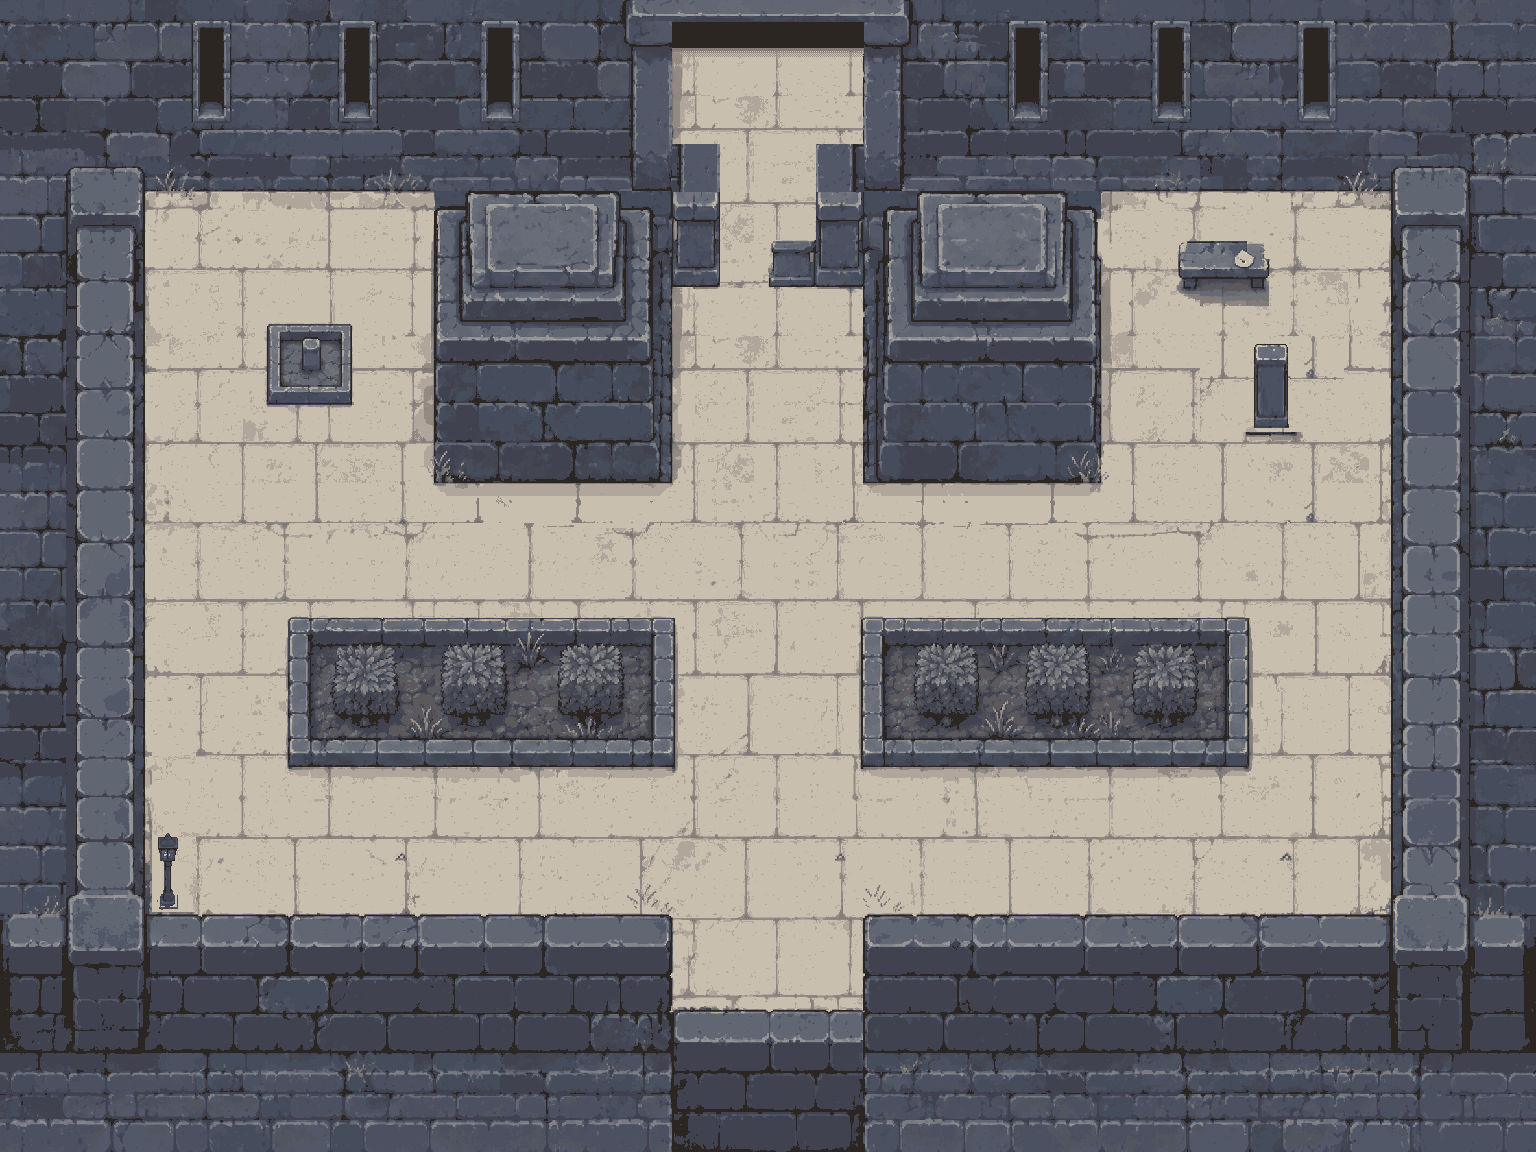
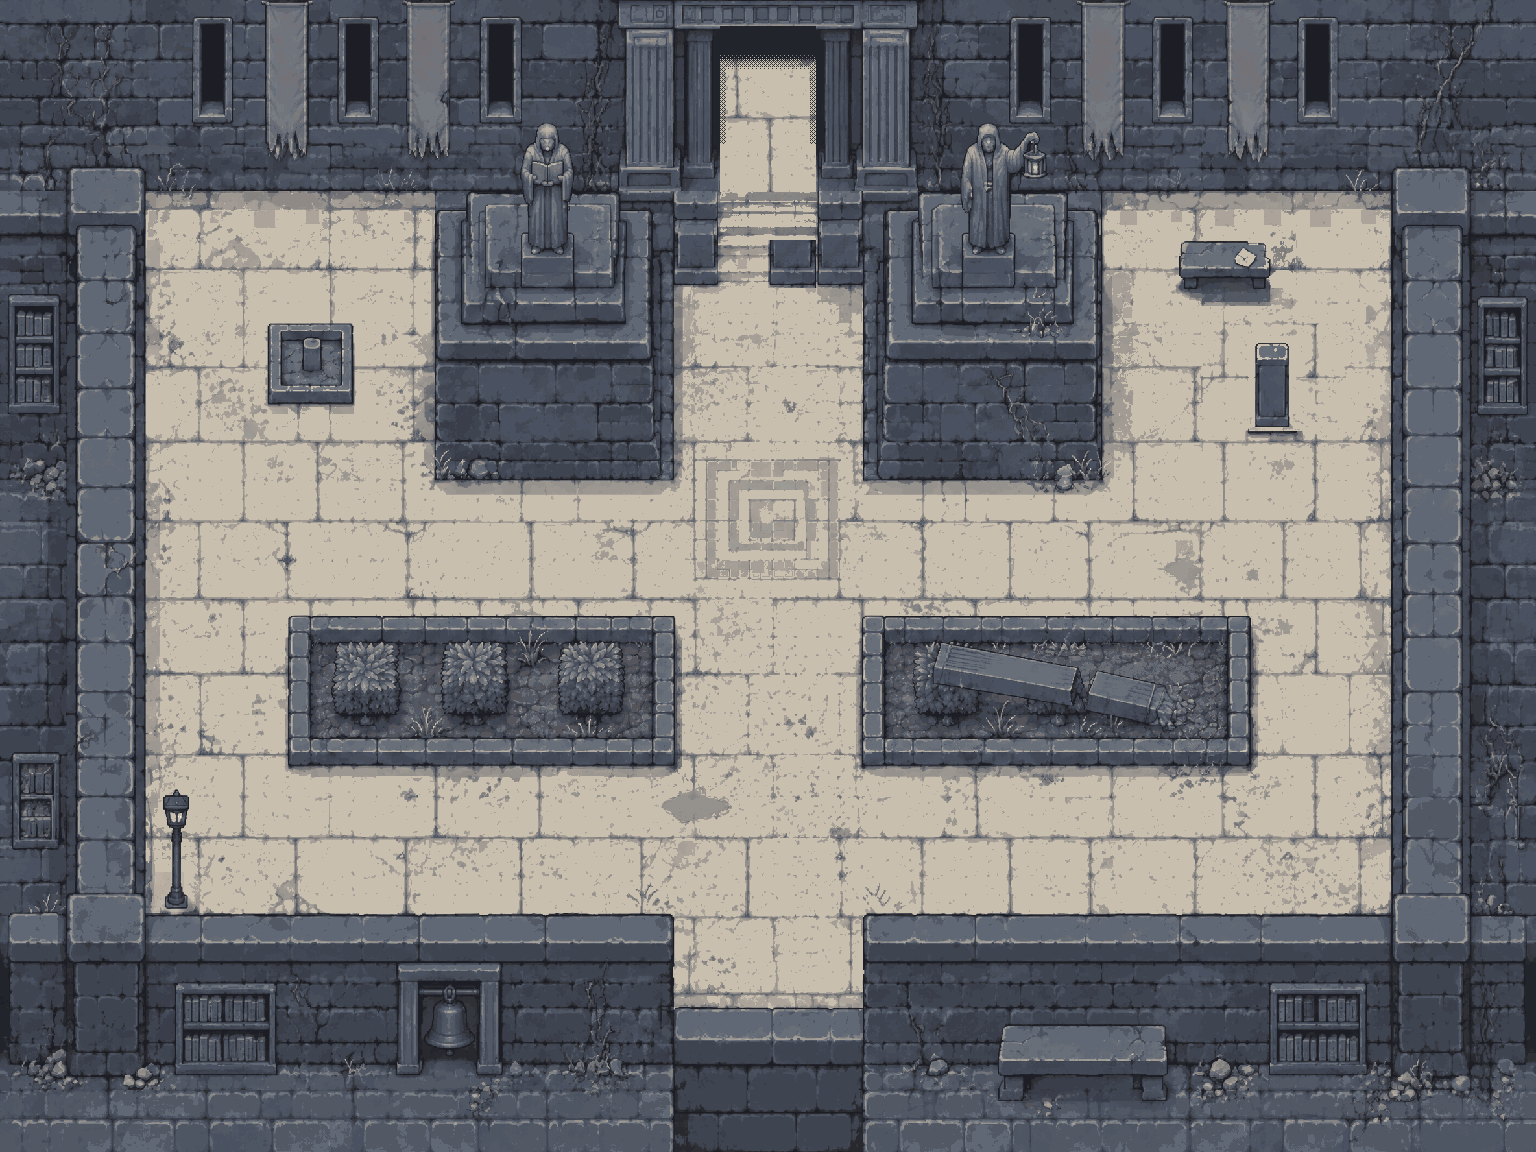
art: richer act 5 maps (tower gate, statues, tower-top parapet)
Review said 5-1 and 5-2 were too plain. Both redrawn at 2K from the
committed maps with the new structure roughly painted in
(ref_5-1_rich.py, ref_5-2_rich.py), palette from both images side by side
(43 colours, sat <= 0.25), then fix_5-X_48_rich.py + calm.py (each
walkable tile keeps >= 46% path colour; cracks, pebbles, ash, weeds,
puddles and the square mosaic stay).

5-1: tall square gate (fluted posts, carved lintel, dark doorway, steps),
statues with a book and an unlit lantern on the plinths, faded banners,
dead vines, toppled pillar, stone-tablet shelves, a cold bell, rubble.
5-2: tower top with crenellated parapet over a grey cloud sea, broken
iron railings, cracked dais with a square border, banner, rubble, stair
down off the east edge.

Data change in 5-1 (Task 1 Step 9 rules): (14,1) (14,2) (17,1) (17,2)
'.' -> '#', so the gate posts stand 4 tiles tall; exit (15,1) and its
passage untouched. No arches or circles and no fog on the act 5 maps,
per the art bible and plan. bad 0 on both. 2 generations, 20 credits.

Claude-Session: https://claude.ai/code/session_017WoqJ7PBE5F4GzxWdiYF3d

Changed region(s): [[0.0, 0.0, 1.0, 1.0]]

diff --git a/data/acts/act5.js b/data/acts/act5.js
@@ -10,8 +10,8 @@ const say = (text) => ({ who: 'narration', text });
 // 위쪽 가운데: 탑 문 앞을 꼬마 잿빛 그림자(m)가 막고, 그 위가 탑 문(출구 15,1)
 const MAP_5_1 = [
   '################################',
-  '##############....##############',
-  '##############....##############',
+  '###############..###############',
+  '###############..###############',
   '###############..###############',
   '###......######..######......###',
   '###.c....######m#######..9...###',

diff --git a/design/art/act5/map-fixes/ref_5-2_rich.py b/design/art/act5/map-fixes/ref_5-2_rich.py
@@ -1,0 +1,61 @@
+# 5-2 다시 그리기(풍성하게)용 참고 그림: 커밋한 5-2 맵 위에 탑 꼭대기 자리를 거칠게 칠한다.
+# 바깥벽 바깥쪽 두 칸(0~1열, 30~31열, 0줄, 22~23줄)은 탑 아래 멀리 깔린 잿빛 구름 바다,
+# 바깥벽 안쪽 칸(2열·29열·1줄·21줄)은 네모 톱니(총안)가 있는 난간 벽, 동쪽 출구(29~31열 10줄)는 아래로 내려가는 돌계단.
+# 가운데 꼭대기 단(12~21열 9~11줄)은 길 색 위에 네모 테두리 무늬와 금(갈라진 단). 안쪽 벽 위 부서진 쇠 난간 자리.
+# 모양은 모두 곧은 네모(아치·둥근 것 없음, 구름만 부드럽다). 구름은 잿빛 3단이 아닌 옅은 푸른 잿빛.
+# 사용: $PY ref_5-2_rich.py assets/pixel/map_ch5-2_tap-kkokdaegi.png raw/map_5-2_ref_rich.png
+import sys, json, subprocess
+import numpy as np
+from PIL import Image, ImageDraw, ImageFilter
+src, out = sys.argv[1:3]
+im = Image.open(src).convert('RGB')
+T = 48
+rows = json.loads(subprocess.run(['node', 'tools/layout-guide.mjs', '--rows', '5-2'], capture_output=True, text=True).stdout)
+STONE_L, STONE, STONE_D, INK = (0x75, 0x79, 0x81), (0x61, 0x66, 0x73), (0x4B, 0x51, 0x60), (0x40, 0x43, 0x4F)
+VOID, CLOUD_D, CLOUD_L = (0x4D, 0x50, 0x5B), (0x82, 0x84, 0x87), (0xA2, 0x9B, 0x93)
+d = ImageDraw.Draw(im)
+R = lambda x0, y0, x1, y1, c, o=None: d.rectangle((round(x0 * T), round(y0 * T), round(x1 * T) - 1, round(y1 * T) - 1), fill=c, outline=o)
+
+# 구름 바다(바깥 두 칸 띠)
+sea = np.zeros((24 * T, 32 * T), bool)
+sea[:, :2 * T] = True; sea[:, 30 * T:] = True; sea[:1 * T, :] = True; sea[22 * T:, :] = True
+sea[10 * T:11 * T, 29 * T:] = False                     # 출구 계단은 남긴다
+cl = Image.new('RGB', im.size, VOID)
+cd = ImageDraw.Draw(cl)
+rng = np.random.default_rng(3)
+for _ in range(90):
+    x, y = rng.integers(0, 32 * T), rng.integers(0, 24 * T)
+    w, h = rng.integers(60, 160), rng.integers(24, 60)
+    cd.ellipse((x - w, y - h, x + w, y + h), fill=CLOUD_D)
+    cd.ellipse((x - w * 0.6, y - h * 0.8, x + w * 0.5, y + h * 0.3), fill=CLOUD_L)
+cl = cl.filter(ImageFilter.ModeFilter(9))
+a = np.array(im); a[sea] = np.array(cl)[sea]; im = Image.fromarray(a)
+d = ImageDraw.Draw(im)
+# 난간 벽과 네모 톱니(바깥쪽 가장자리)
+for x in (2, 29):
+    for y0, y1 in ((1, 10), (11, 22)) if x == 29 else ((1, 22),):
+        R(x, y0, x + 1, y1, STONE, INK)
+    for y in range(1, 22):
+        if x == 29 and y == 10:
+            continue
+        R(x + (0 if x == 2 else 0.55), y + 0.1, x + (0.45 if x == 2 else 1), y + 0.6, STONE_L, INK)
+for y in (1, 21):
+    R(2, y, 30, y + 1, STONE, INK)
+    for xx in range(2, 30):
+        R(xx + 0.1, y + (0 if y == 1 else 0.55), xx + 0.6, y + (0.45 if y == 1 else 1), STONE_L, INK)
+# 출구 돌계단(29~31열 10줄), 길 색 위 디딤 턱
+for k in range(9):
+    x = 29 + k * 0.33
+    R(x, 10, x + 0.05, 11, (0xA2, 0x9B, 0x93))
+# 꼭대기 단: 네모 테두리 무늬 두 겹과 금
+R(12.3, 9.2, 21.7, 11.8, None, (0xA2, 0x9B, 0x93))
+R(12.6, 9.45, 21.4, 11.55, None, (0xA2, 0x9B, 0x93))
+d.line((14 * T, 9.5 * T, 15.2 * T, 10.4 * T, 16.1 * T, 10.2 * T), fill=(0x82, 0x84, 0x87), width=2)
+# 안쪽 벽 위 부서진 쇠 난간(가는 세로 살 줄)
+for (x0, x1, y) in ((6, 26, 4.1), (10, 22, 8.1), (6, 26, 16.1)):
+    for xx in np.arange(x0, x1, 0.25):
+        if rng.random() < 0.8:
+            R(xx, y, xx + 0.04, y + 0.35, INK)
+    R(x0, y, x1, y + 0.05, INK)
+im.save(out)
+print('saved', out)

diff --git a/design/art/act5/map-fixes/fix_5-1_48_rich.py b/design/art/act5/map-fixes/fix_5-1_48_rich.py
@@ -1,0 +1,46 @@
+# 5-1(풍성하게) 48px 다듬기. 2K 원본 map_5-1_2k_b1(참고: ref_5-1_rich.py로 문 자리를 칠한 커밋 맵)을
+# 5막 색표(5-1·5-2 풍성한 2K 둘을 나란히 붙인 그림에서 뽑은 43색)로 줄인 뒤:
+# 1) 탑 문: 2K는 문 안(15~16열 1~3줄)을 그늘로 그렸다. 마당 판석을 옮겨 깔고, 0줄과 1줄 위 22px만 어두운 문 안으로
+#    (아래로 갈수록 성긴 디더). 문기둥은 데이터대로 14·17열 1~2줄 막힌 칸(act5.js 5-1 두 줄 고침)에 그대로 선다.
+# 2) (16,5) 문 앞 기둥: 2K는 계단으로 그렸다. 오른쪽 (17,5) 기둥 돌을 옮겨 놓는다.
+# 3) calm.py: 걸을 수 있는 칸마다 길 색이 46% 넘게(판석의 밝기 차이를 먼저 모으고, 모자라면 길 색과 가까운 점부터).
+#    금 간 판석·잔돌·마른 꽃잎·풀·물웅덩이·네모 모자이크 같은 또렷한 무늬는 남는다.
+# 사용: $PY fix_5-1_48_rich.py raw/map_5-1_b1_px.png raw/map_5-1_48b.png
+import os, sys, json, subprocess
+sys.path.insert(0, os.path.dirname(os.path.abspath(__file__)))
+import numpy as np
+from PIL import Image
+from calm import calm
+src, out = sys.argv[1:3]
+im = Image.open(src)
+a = np.array(im)
+pal = im.getpalette()
+hexes = ['#%02X%02X%02X' % tuple(pal[i*3:i*3+3]) for i in range(len(pal) // 3)]
+idx = lambda h: hexes.index(h.upper())
+rows = json.loads(subprocess.run(['node', 'tools/layout-guide.mjs', '--rows', '5-1'], capture_output=True, text=True).stdout)
+T = a.shape[1] // 32
+
+DARK, INK = idx('#22242C'), idx('#34373D')
+B = np.array([[0, 8, 2, 10], [12, 4, 14, 6], [3, 11, 1, 9], [15, 7, 13, 5]])
+# 1) 문 안 바닥: 마당 판석 2×3칸(20~21열 16~18줄)을 문 안 15~16열 1~3줄로 옮기고, 0줄과 1줄 위쪽만 어두운 문 안
+#    (1줄 위 22px 안에서 아래로 갈수록 성긴 Bayer 디더, 짙은 먹색 → 먹색)
+a[1 * T:4 * T, 15 * T:17 * T] = a[16 * T:19 * T, 20 * T:22 * T]
+for yy in range(T, 3 * T):                             # 문설주 안쪽 그늘(양옆 6px, 성긴 디더)
+    for xx in list(range(15 * T, 15 * T + 6)) + list(range(17 * T - 6, 17 * T)):
+        if B[yy % 4, xx % 4] < 6:
+            a[yy, xx] = INK
+for yy in range(int(0.55 * T), T + 22):
+    t = 1.0 if yy < T + 6 else 1 - (yy - T - 6) / 16
+    for xx in range(15 * T, 17 * T):
+        if B[yy % 4, xx % 4] < t * 16:
+            a[yy, xx] = DARK if yy < T + 12 else INK
+# 2) (16,5) 기둥
+a[5 * T:6 * T, 16 * T:17 * T] = a[5 * T:6 * T, 17 * T:18 * T]
+
+# 3) 길 고르기
+P = '#C9BFAE'
+NEAR = ['#BBB0A1', '#BAB2A7', '#BDB6AB', '#B6ACA0', '#D1C9BA']
+a = calm(a, pal, rows, set(), P, NEAR)
+o = Image.fromarray(a, 'P'); o.putpalette(pal)
+o.save(out, optimize=True)
+print('saved', out)

diff --git a/design/art/act5/map-fixes/ref_5-1_rich.py b/design/art/act5/map-fixes/ref_5-1_rich.py
@@ -1,0 +1,45 @@
+# 5-1 다시 그리기(풍성하게)용 참고 그림: 커밋한 5-1 맵 위에 큰 탑 문 자리를 거칠게 칠한다.
+# 문: 13·18열 굵은 문설주(0~3줄, 세로 홈 새김), 12~19열 0줄 위쪽 두꺼운 상인방(네모 새김판), 14~17열 0줄 어두운 문 안,
+# 15~16열 3~4줄 돌계단(길 색 위에 디딤 턱 줄만). 받침돌 위 석상 자리, 화단 하나에 쓰러진 돌기둥, 탑 벽의 바랜 깃발 자리.
+# 모양은 모두 곧은 네모(아치·둥근 것 없음). 색은 5막 색표 안의 것만.
+# 사용: $PY ref_5-1_rich.py assets/pixel/map_ch5-1_tap-apttel.png raw/map_5-1_ref_rich.png
+import sys
+from PIL import Image, ImageDraw
+src, out = sys.argv[1:3]
+im = Image.open(src).convert('RGB')
+d = ImageDraw.Draw(im)
+T = 48
+STONE_L, STONE, STONE_D, INK, DARK = (0x75, 0x79, 0x81), (0x61, 0x66, 0x73), (0x4B, 0x51, 0x60), (0x40, 0x43, 0x4F), (0x2B, 0x26, 0x22)
+R = lambda x0, y0, x1, y1, c, o=None: d.rectangle((round(x0 * T), round(y0 * T), round(x1 * T) - 1, round(y1 * T) - 1), fill=c, outline=o)
+
+# 문설주(왼쪽 13열, 오른쪽 18열): 바깥 돌, 안쪽 밝은 면, 세로 홈 셋
+for x in (13, 18):
+    R(x, 0, x + 1, 3.95, STONE, INK)
+    R(x + 0.15, 0.55, x + 0.85, 3.7, STONE_L, INK)
+    for k in (0.32, 0.5, 0.68):
+        R(x + k - 0.03, 0.8, x + k + 0.03, 3.5, STONE_D)
+    R(x - 0.1, 3.55, x + 1.1, 3.95, STONE_D, INK)            # 받침
+# 상인방과 새김판
+R(12.6, 0, 19.4, 0.55, STONE, INK)
+R(14.3, 0.08, 17.7, 0.47, STONE_D, INK)
+for k in range(6):
+    R(14.5 + k * 0.5, 0.16, 14.75 + k * 0.5, 0.39, STONE_L)
+# 문 안(0줄 아래쪽)
+R(14, 0.55, 18, 1.0, DARK)
+# 돌계단: 3~4줄 15~16열, 길 위에 디딤 턱 줄만
+for k in range(5):
+    y = 3 + 0.4 * k
+    R(15, y, 17, y + 0.06, (0xB0, 0xA6, 0x9C))
+# 받침돌 위 석상(책을 든 사람·꺼진 등을 든 사람) 자리: 좁은 세로 덩이
+for cx, top in ((11.5, 4.1), (20.5, 4.1)):
+    R(cx - 0.45, top + 1.1, cx + 0.45, top + 1.6, STONE_D, INK)   # 석상 받침
+    R(cx - 0.3, top, cx + 0.3, top + 1.15, STONE_L, INK)          # 몸
+    R(cx - 0.18, top - 0.35, cx + 0.18, top, STONE_L, INK)         # 머리
+# 쓰러진 돌기둥(오른쪽 화단)
+R(19, 13.55, 24.6, 14.25, STONE_L, INK)
+R(24.6, 13.45, 25.2, 14.35, STONE, INK)
+# 탑 벽의 바랜 깃발(세로 띠) 넷
+for cx in (6, 9, 23, 26):
+    R(cx - 0.3, 0.4, cx + 0.3, 2.9, (0x8E, 0x86, 0x80), INK)
+im.save(out)
+print('saved', out)

diff --git a/design/art/act5/map-fixes/calm.py b/design/art/act5/map-fixes/calm.py
@@ -1,0 +1,54 @@
+# 5막 맵 공용 다듬기(색표 안에서만 바꾼다, 색 수 그대로).
+# 걸을 수 있는 칸(과 출구 통로)은 길 색(가장 많은 판석 색)이 칸마다 SHARE 넘게 되도록, 길 색과 가장 가까운 점부터
+# 길 색으로 바꾼다(금·잔돌·풀·얼룩 같은 또렷한 무늬는 끝까지 남는다). 3-2 디딤돌처럼 길 바탕 위에 무늬를 얹는 방식.
+#   calm(a, pal, rows, exit_cells, path_hex, near_hexes, share)
+#     near_hexes: 길 칸 둘레 8px 안에서 먼저 길 색으로 모을 판석 색(같은 판석의 밝기 차이)
+import numpy as np
+
+
+def shift_all(mm, r, fn):
+    H, W = mm.shape
+    p = np.pad(mm, r, constant_values=(fn is np.logical_and))
+    o = mm.copy()
+    for dy in range(-r, r + 1):
+        for dx in range(-r, r + 1):
+            o = fn(o, p[r + dy:r + dy + H, r + dx:r + dx + W])
+    return o
+
+
+def walk_mask(a, rows, extra=()):
+    T = a.shape[1] // len(rows[0])
+    m = np.zeros(a.shape, bool)
+    for y, r in enumerate(rows):
+        for x, c in enumerate(r):
+            if (c != '#' and not c.isdigit()) or (x, y) in extra:
+                m[y * T:(y + 1) * T, x * T:(x + 1) * T] = True
+    return m, T
+
+
+def calm(a, pal, rows, extra, path_hex, near_hexes, share=0.46):
+    hexes = ['#%02X%02X%02X' % tuple(pal[i*3:i*3+3]) for i in range(len(pal) // 3)]
+    rgb = np.array(pal[:len(hexes) * 3]).reshape(-1, 3).astype(float)
+    P = hexes.index(path_hex)
+    m, T = walk_mask(a, rows, extra)
+    zone = shift_all(m, 8, np.logical_or)
+    before = a.copy()
+    for h in near_hexes:
+        a[(before == hexes.index(h)) & zone] = P
+    dist = np.sqrt(((rgb - rgb[P]) ** 2).sum(axis=1))
+    need = int(np.ceil(share * T * T))
+    for y, r in enumerate(rows):
+        for x, c in enumerate(r):
+            if not ((c != '#' and not c.isdigit()) or (x, y) in extra):
+                continue
+            t = a[y * T:(y + 1) * T, x * T:(x + 1) * T]
+            have = int((t == P).sum())
+            if have >= need:
+                continue
+            # 길 색과 가까운 색부터, 같은 색 안에서는 칸 가운데에서 먼 점부터 바꾼다
+            yy, xx = np.nonzero(t != P)
+            d = dist[t[yy, xx]]
+            edge = -np.maximum(np.abs(yy - T / 2), np.abs(xx - T / 2))
+            order = np.lexsort((edge, d))[:need - have]
+            t[yy[order], xx[order]] = P
+    return a

diff --git a/design/art/act5/map-fixes/fix_5-2_48_rich.py b/design/art/act5/map-fixes/fix_5-2_48_rich.py
@@ -1,0 +1,36 @@
+# 5-2(풍성하게, 탑 꼭대기) 48px 다듬기. 2K 원본 map_5-2_2k_b1(참고: ref_5-2_rich.py로 난간·구름·단을 칠한 커밋 맵)을
+# 5막 색표(5-1과 같은 43색)로 줄인 뒤:
+# 1) 위쪽 등잔걸이(0, (15,3)): 2K는 종을 넣어 그렸다. 서쪽 빈 등잔걸이(1, (3,9)) 칸을 옮겨 놓아 셋이 같은 빈 등잔걸이가 되게 한다.
+# 1b) 구름 띠의 가장 밝은 점은 구름 잿빛으로.
+# 2) calm.py: 걸을 수 있는 칸(과 출구 통로 (31,10))마다 길 색이 46% 넘게. 바닥에 떨어진 잔돌·재·꽃잎·금·물웅덩이는 남는다.
+# 사용: $PY fix_5-2_48_rich.py raw/map_5-2_b1_px.png raw/map_5-2_48b.png
+import os, sys, json, subprocess
+sys.path.insert(0, os.path.dirname(os.path.abspath(__file__)))
+import numpy as np
+from PIL import Image
+from calm import calm
+src, out = sys.argv[1:3]
+im = Image.open(src)
+a = np.array(im)
+pal = im.getpalette()
+rows = json.loads(subprocess.run(['node', 'tools/layout-guide.mjs', '--rows', '5-2'], capture_output=True, text=True).stdout)
+T = a.shape[1] // 32
+
+# 1) 위쪽 등잔걸이
+a[2 * T + 16:4 * T, 15 * T:16 * T] = a[8 * T + 16:10 * T, 3 * T:4 * T]
+
+# 1b) 구름의 가장 밝은 점(흰 빛처럼 보임)은 구름 잿빛으로(바닥 둘레 밖에서만)
+hexes = ['#%02X%02X%02X' % tuple(pal[i*3:i*3+3]) for i in range(len(pal) // 3)]
+from calm import walk_mask, shift_all
+wm, _ = walk_mask(a, rows, {(31, 10)})
+out_zone = ~shift_all(wm, 4 * T, np.logical_or) | (np.arange(a.shape[1])[None, :] >= 30 * T) | (np.arange(a.shape[1])[None, :] < 2 * T)
+for h, to in (('#FBF5E6', '#A19B93'), ('#D1C9BA', '#A19B93'), ('#C9BFAE', '#A19B93')):
+    a[(a == hexes.index(h)) & out_zone & ~wm] = hexes.index(to)
+
+# 2) 길 고르기
+P = '#C9BFAE'
+NEAR = ['#BBB0A1', '#BAB2A7', '#BDB6AB', '#B6ACA0', '#D1C9BA']
+a = calm(a, pal, rows, {(31, 10)}, P, NEAR)
+o = Image.fromarray(a, 'P'); o.putpalette(pal)
+o.save(out, optimize=True)
+print('saved', out)

diff --git a/docs/superpowers/plans/2026-11-04-acts2-5-art.md b/docs/superpowers/plans/2026-11-04-acts2-5-art.md
@@ -346,7 +346,7 @@ Task들은 아래 절차를 막·장 값만 바꿔 쓴다. `PY=/root/.local/shar
 | 4 3막 일러스트 | 170 | 20 | 200 (여유에서 30: 나래 base, 여울 base, bg_ch3-2 다시 그리기) |
 | 5 4막 맵·도트 | 70 | 7 | 50 |
 | 6 4막 일러스트 | 140 | | |
-| 7 5막 맵·도트·세계 지도 | 78 | 7 | 54 |
+| 7 5막 맵·도트·세계 지도 | 78 | 9 | 74 |
 | 8 5막 일러스트·엔딩 | 120 | | |
 | 여유 | 112 | 1 | 10 (T3R: 3-2 맵 다시 그리기 — 냇물 위아래·둥근 다리·디딤돌) |
 | **합계** | **1,000** | | |
